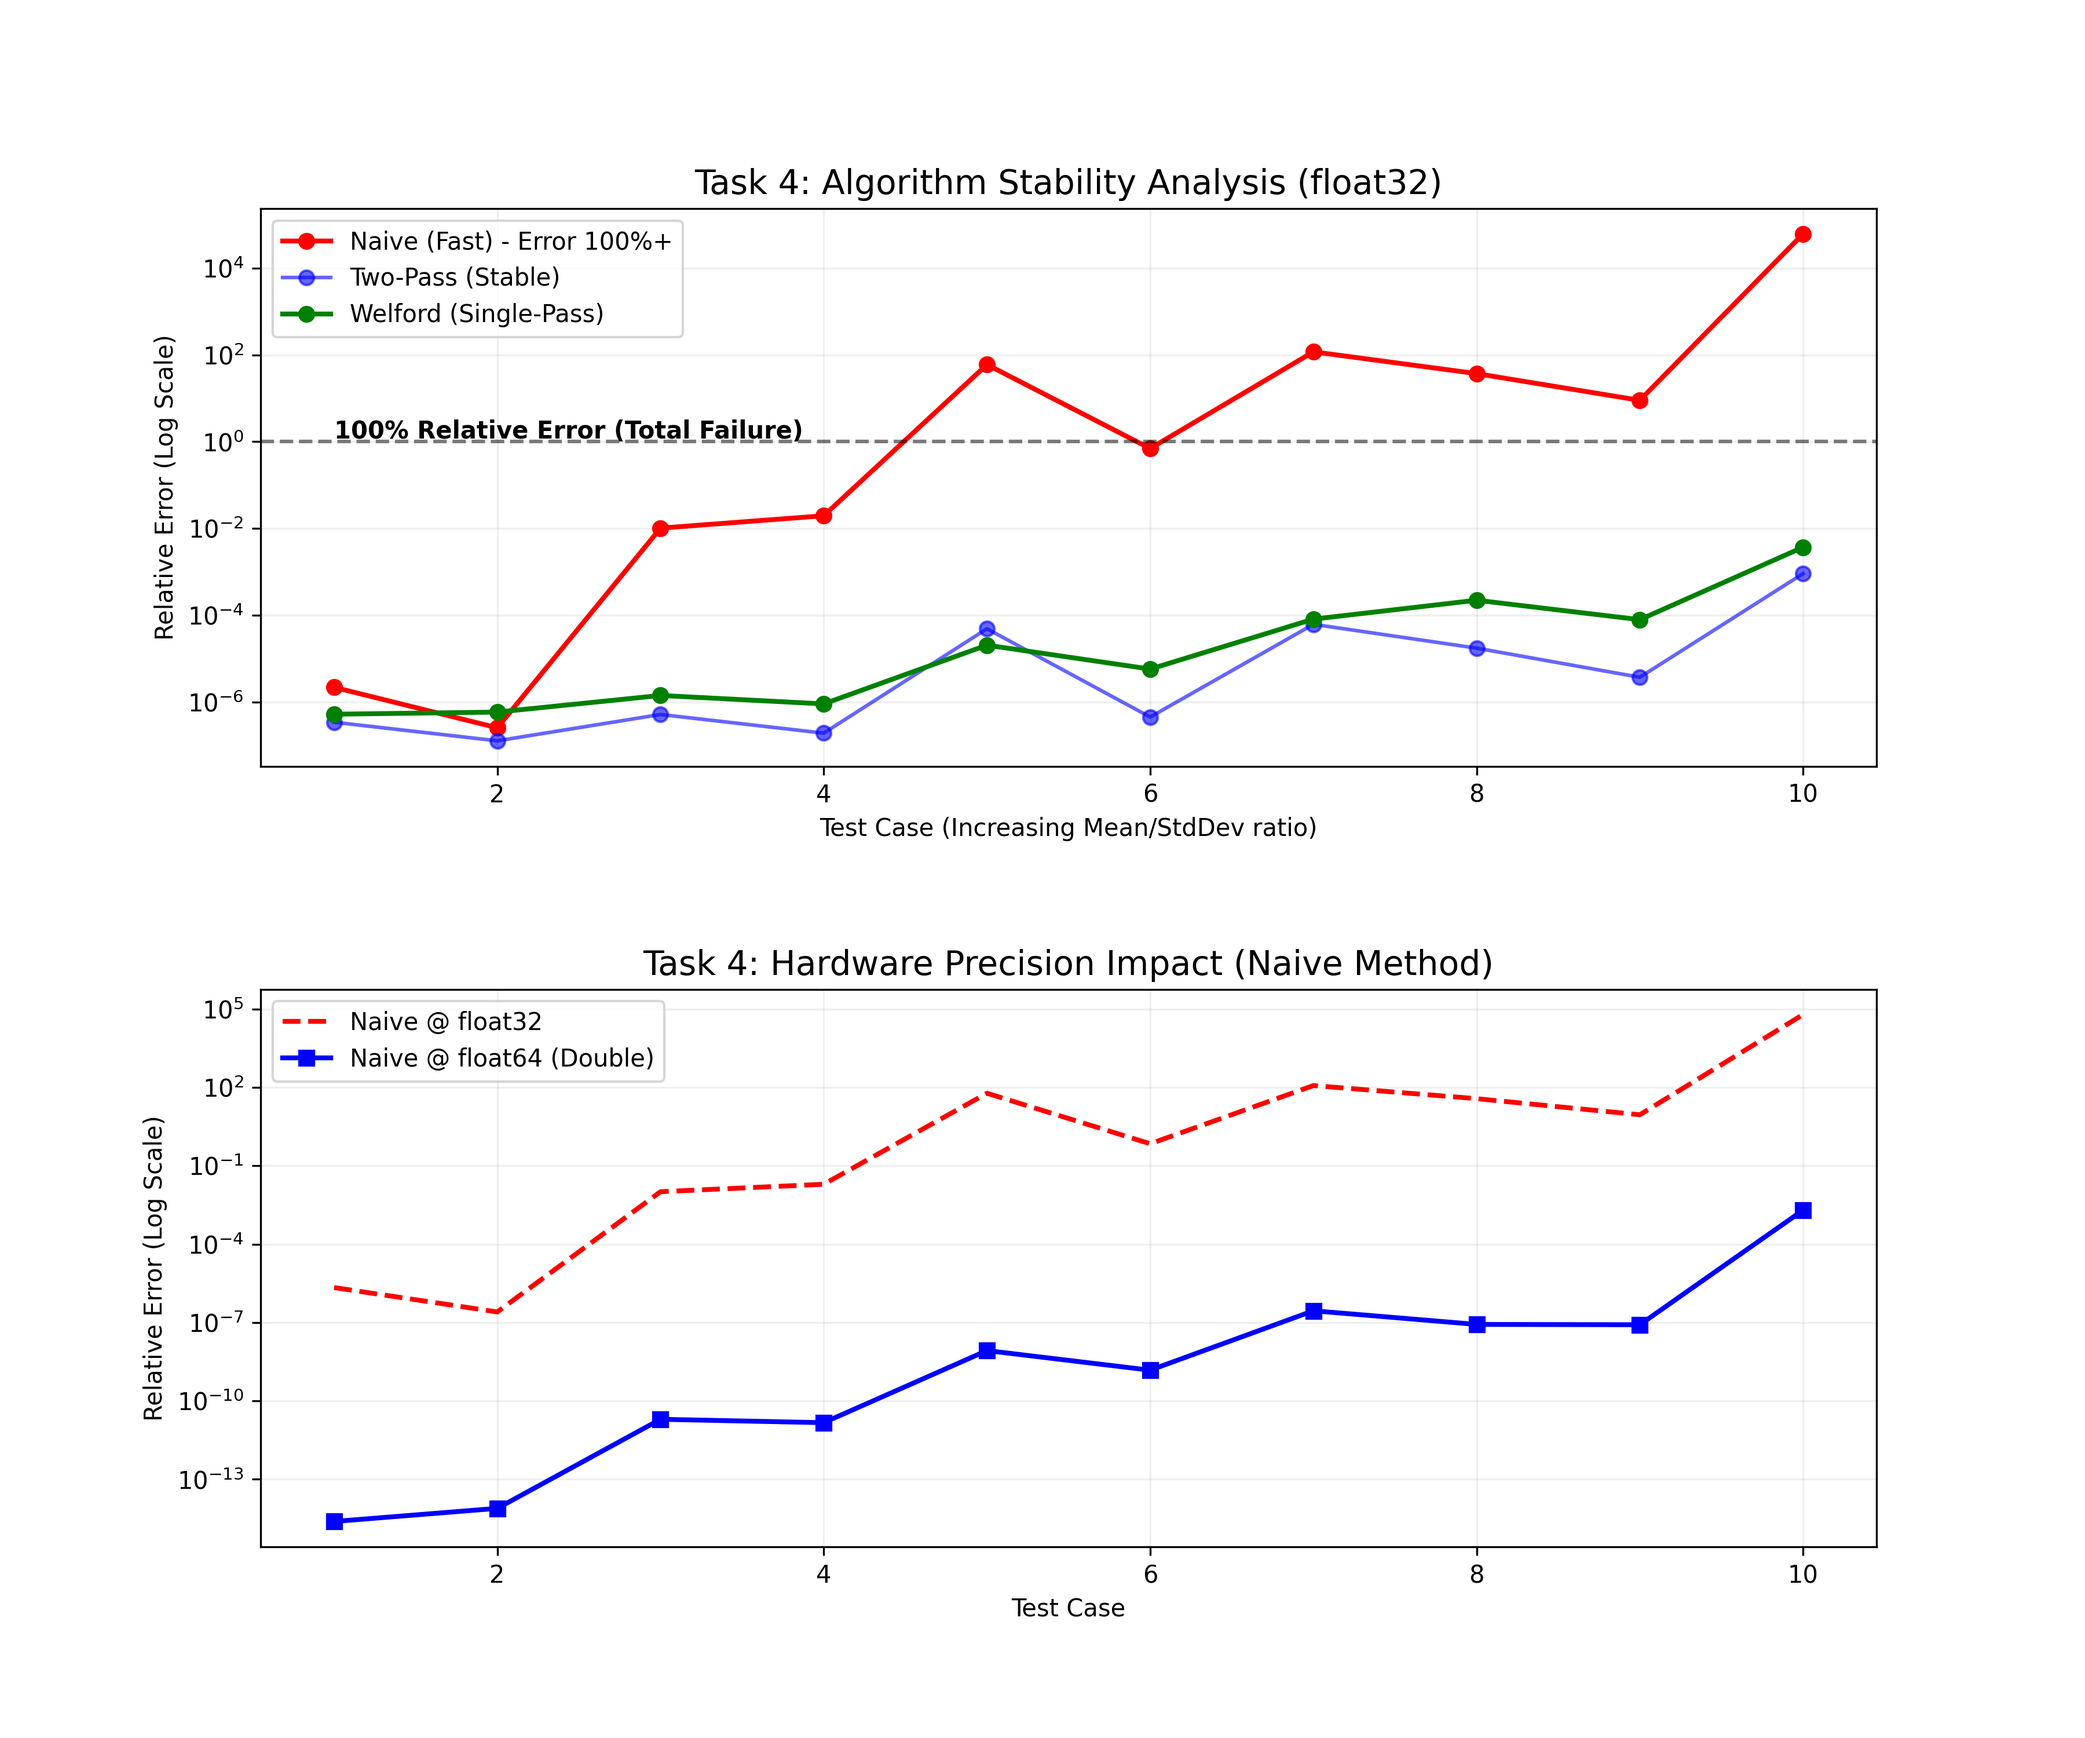
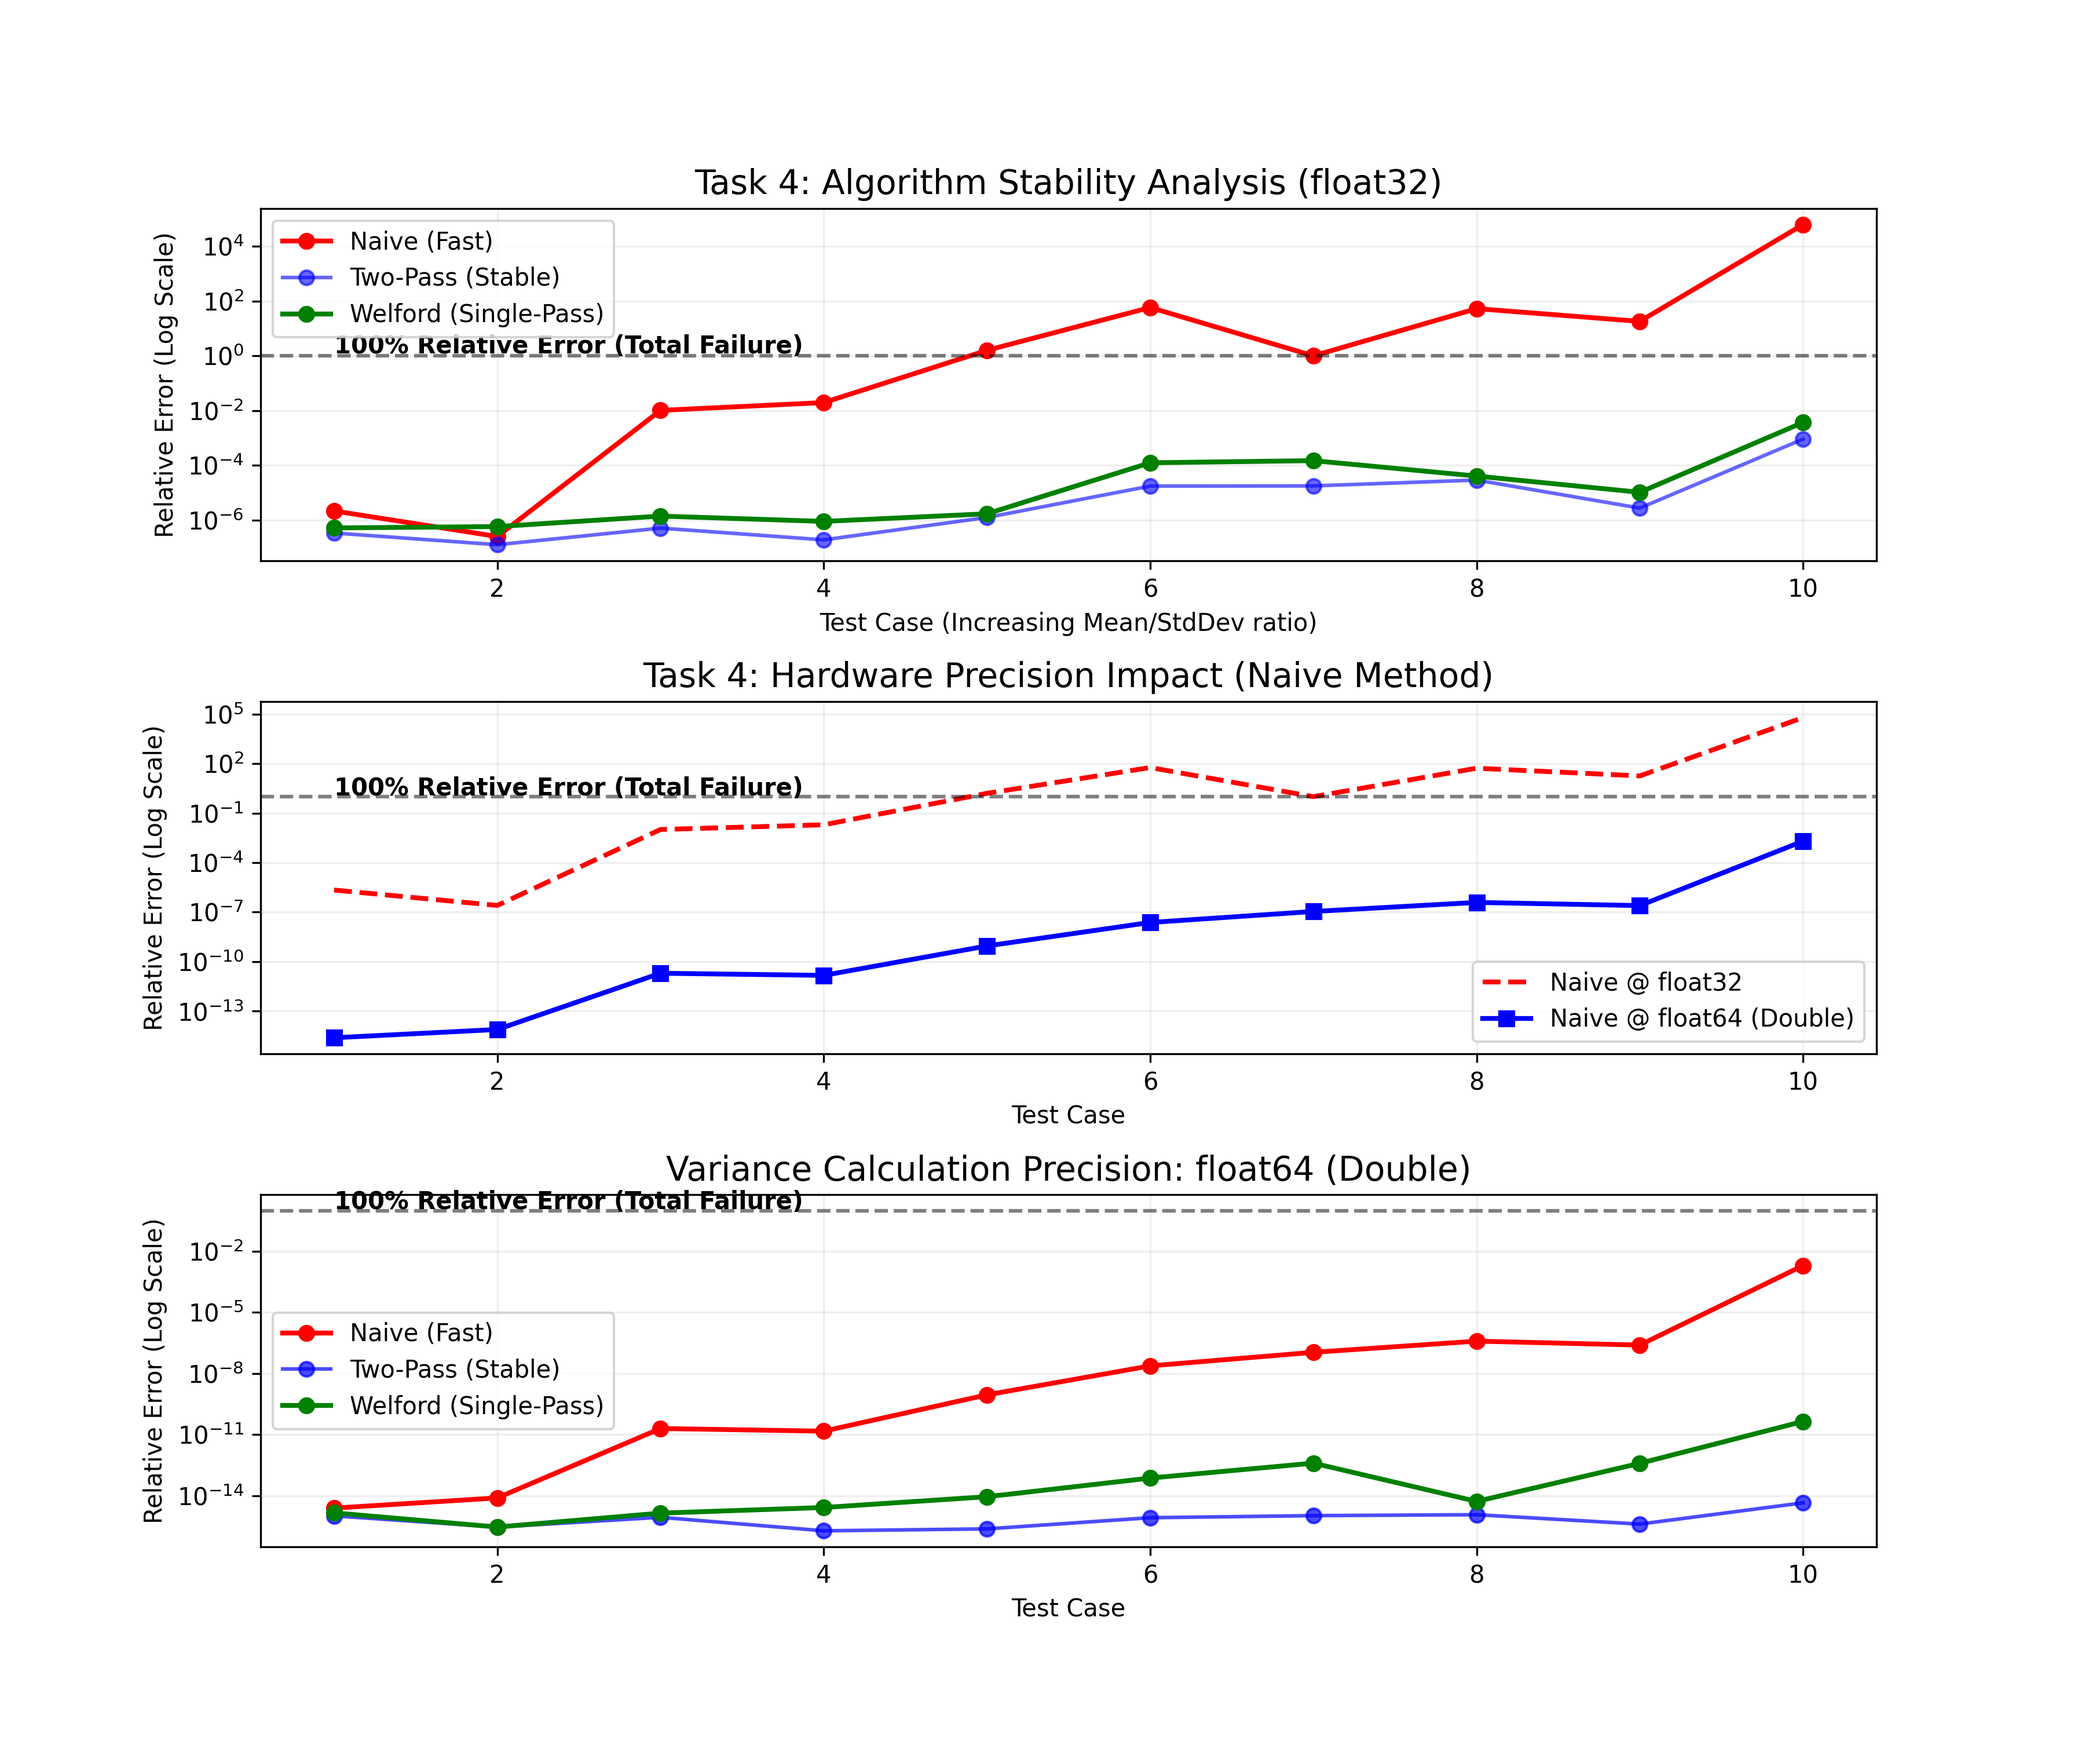
crit error task conclusion added

diff --git a/Third_task/plots.py b/Third_task/plots.py
@@ -10,12 +10,12 @@ f64_df = df[df['Type'] == 'float64'].reset_index()
 
 x_axis = f32_df['Number'] if 'Number' in f32_df.columns else f32_df.index + 1
 
-fig, (ax1, ax2) = plt.subplots(2, 1, figsize=(12, 10))
+fig, (ax1, ax2, ax3) = plt.subplots(3, 1, figsize=(12, 10))
 plt.subplots_adjust(hspace=0.4)
 
-# --- ГРАФИК 1: Крах алгоритма Naive на float32 ---
-ax1.set_yscale('log') # Логарифмическая шкала обязательна
-ax1.plot(x_axis, f32_df['ErrFast'], 'ro-', label='Naive (Fast) - Error 100%+', linewidth=2)
+# Крах алгоритма Naive на float32
+ax1.set_yscale('log')
+ax1.plot(x_axis, f32_df['ErrFast'], 'ro-', label='Naive (Fast)', linewidth=2)
 ax1.plot(x_axis, f32_df['ErrTwoPass'], 'bo-', label='Two-Pass (Stable)', alpha=0.6)
 ax1.plot(x_axis, f32_df['ErrSinglePass'], 'go-', label='Welford (Single-Pass)', linewidth=2)
 
@@ -29,16 +29,35 @@ ax1.set_ylabel('Relative Error (Log Scale)')
 ax1.grid(True, which="both", ls="-", alpha=0.2)
 ax1.legend()
 
-# --- ГРАФИК 2: Сравнение точности float32 vs float64 для метода Naive ---
+# Сравнение точности float32 vs float64 для метода Naive
 ax2.set_yscale('log')
 ax2.plot(x_axis, f32_df['ErrFast'], 'r--', label='Naive @ float32', linewidth=2)
 ax2.plot(x_axis, f64_df['ErrFast'], 'b-', label='Naive @ float64 (Double)', linewidth=2, marker='s')
+
+ax2.axhline(y=1.0, color='black', linestyle='--', alpha=0.5)
+ax2.text(1, 1.2, '100% Relative Error (Total Failure)', color='black', fontweight='bold')
 
 ax2.set_title('Task 4: Hardware Precision Impact (Naive Method)', fontsize=14)
 ax2.set_xlabel('Test Case')
 ax2.set_ylabel('Relative Error (Log Scale)')
 ax2.grid(True, which="both", ls="-", alpha=0.2)
 ax2.legend()
+
+# float64
+ax3.set_yscale('log')
+ax3.plot(x_axis, f64_df['ErrFast'], 'ro-', label='Naive (Fast)', linewidth=2)
+ax3.plot(x_axis, f64_df['ErrTwoPass'], 'bo-', label='Two-Pass (Stable)', alpha=0.7)
+ax3.plot(x_axis, f64_df['ErrSinglePass'], 'go-', label='Welford (Single-Pass)', linewidth=2)
+
+ax3.axhline(y=1.0, color='black', linestyle='--', alpha=0.5)
+ax3.text(1, 1.2, '100% Relative Error (Total Failure)', color='black', fontweight='bold')
+
+ax3.set_title('Variance Calculation Precision: float64 (Double)', fontsize=14)
+ax3.set_xlabel('Test Case')
+ax3.set_ylabel('Relative Error (Log Scale)')
+ax3.grid(True, which="both", ls="-", alpha=0.2)
+ax3.legend()
+
 
 plt.savefig('critical_error.png', dpi=300)
 plt.show()

diff --git a/Third_task/src/main.cpp b/Third_task/src/main.cpp
@@ -13,11 +13,11 @@ int main() {
         {1000, 10.0, 10.0},
         {1000, 10.0, 0.1},
         {1000, 10000.0, 100.0},
-        {1000, 100.0, 0.01},
         {1000, 1000.0, 1.0},
         {1000, 10.0, 0.001},
         {1000, 1.0, 0.0001},
         {1000, 100000.0, 10.0},
+        {1000, 100.0, 0.01},
         {1000, 1000.0, 0.001},
     };
 
